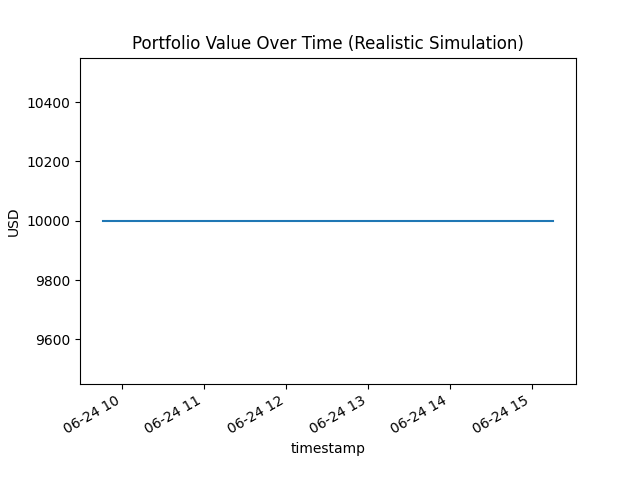
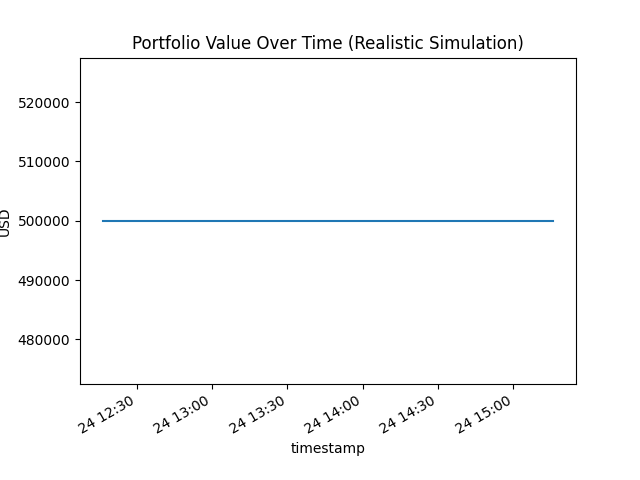
new file:   advanced_backtest.py 	new file:   advanced_trade_log.csv 	modified:   backtest.py 	new file:   feature_importance.png 	modified:   main.py 	new file:   portfolio_value_advanced.png 	modified:   portfolio_value_realistic.png 	modified:   shap_summary.png

diff --git a/advanced_backtest.py b/advanced_backtest.py
@@ -1,0 +1,200 @@
+import pandas as pd
+import numpy as np
+from sklearn.ensemble import RandomForestRegressor
+import matplotlib
+matplotlib.use('Agg')
+import matplotlib.pyplot as plt
+
+# --- Simulation Settings ---
+DATA_FILE = 'project3/data/bitcoin_usd.csv'
+INITIAL_CASH = 500000  # USD
+WINDOW = 60  # Rolling window size for training
+
+# --- Realism Settings ---
+FEE_RATE = 0.001  # 0.1% fee per trade
+SLIPPAGE_RATE = 0.0005  # 0.05% random slippage
+HOLD_THRESHOLD = 0.0005  # 0.05% threshold for trading
+
+def calculate_technical_indicators(df):
+    """Calculate technical indicators for feature engineering"""
+    # Simple Moving Averages
+    df['sma_5'] = df['close'].rolling(window=5).mean()
+    df['sma_20'] = df['close'].rolling(window=20).mean()
+    
+    # Exponential Moving Averages
+    df['ema_12'] = df['close'].ewm(span=12).mean()
+    df['ema_26'] = df['close'].ewm(span=26).mean()
+    
+    # RSI
+    delta = df['close'].diff()
+    gain = (delta.where(delta > 0, 0)).rolling(window=14).mean()
+    loss = (-delta.where(delta < 0, 0)).rolling(window=14).mean()
+    rs = gain / loss
+    df['rsi'] = 100 - (100 / (1 + rs))
+    
+    # MACD
+    df['macd'] = df['ema_12'] - df['ema_26']
+    df['macd_signal'] = df['macd'].ewm(span=9).mean()
+    df['macd_histogram'] = df['macd'] - df['macd_signal']
+    
+    # Bollinger Bands
+    df['bb_middle'] = df['close'].rolling(window=20).mean()
+    bb_std = df['close'].rolling(window=20).std()
+    df['bb_upper'] = df['bb_middle'] + (bb_std * 2)
+    df['bb_lower'] = df['bb_middle'] - (bb_std * 2)
+    
+    # Price changes
+    df['price_change_1'] = df['close'].pct_change(1)
+    df['price_change_5'] = df['close'].pct_change(5)
+    df['price_change_10'] = df['close'].pct_change(10)
+    
+    # Volume (if available)
+    if 'volume' in df.columns:
+        df['volume_sma'] = df['volume'].rolling(window=20).mean()
+        df['volume_ratio'] = df['volume'] / df['volume_sma']
+    
+    return df
+
+def prepare_ml_data(df):
+    """Prepare data with technical indicators for ML"""
+    # Calculate technical indicators
+    df = calculate_technical_indicators(df)
+    
+    # Select features for ML
+    feature_columns = [
+        'close', 'high', 'low', 'open',
+        'sma_5', 'sma_20', 'ema_12', 'ema_26',
+        'rsi', 'macd', 'macd_signal', 'macd_histogram',
+        'bb_upper', 'bb_lower', 'bb_middle',
+        'price_change_1', 'price_change_5', 'price_change_10'
+    ]
+    
+    # Add volume features if available
+    if 'volume_ratio' in df.columns:
+        feature_columns.append('volume_ratio')
+    
+    ml_df = df[['timestamp'] + feature_columns].copy()
+    ml_df['next_output'] = ml_df['close'].shift(-1)
+    ml_df = ml_df.dropna()
+    return ml_df
+
+# Load data
+df = pd.read_csv(DATA_FILE, parse_dates=['timestamp'])
+ml_df = prepare_ml_data(df)
+
+# Initialize portfolio
+cash = INITIAL_CASH
+btc = 0.0
+portfolio_values = []
+trade_log = []
+shap_values_list = []
+
+print("Starting advanced backtest with technical indicators...")
+print(f"Data points: {len(ml_df)}")
+print(f"Features: {len(ml_df.columns) - 2}")  # -2 for timestamp and next_output
+
+for i in range(WINDOW, len(ml_df) - 1):
+    train = ml_df.iloc[i-WINDOW:i]
+    test = ml_df.iloc[i+1:i+2]
+    
+    # Prepare features (exclude timestamp and next_output)
+    feature_cols = [col for col in train.columns if col not in ['timestamp', 'next_output']]
+    X_train = train[feature_cols]
+    y_train = train['next_output']
+    X_test = test[feature_cols]
+    
+    current_price = test['close'].values[0]
+    current_time = test['timestamp'].values[0]
+
+    # Train Random Forest model
+    model = RandomForestRegressor(n_estimators=100, random_state=42)
+    model.fit(X_train, y_train)
+    
+    pred = model.predict(X_test)[0]
+    pct_move = (pred - current_price) / current_price
+
+    # Trading logic
+    trade_action = 'HOLD'
+    if pct_move > HOLD_THRESHOLD and cash > 0:
+        # Buy with fees and slippage
+        buy_price = current_price * (1 + SLIPPAGE_RATE * np.random.rand())
+        btc_to_buy = (cash / buy_price)
+        fee = btc_to_buy * FEE_RATE
+        btc_to_buy -= fee
+        
+        btc += btc_to_buy
+        cash = 0
+        trade_action = 'BUY'
+        trade_log.append((current_time, 'BUY', buy_price, btc_to_buy, fee * buy_price))
+
+    elif pct_move < -HOLD_THRESHOLD and btc > 0:
+        # Sell with fees and slippage
+        sell_price = current_price * (1 - SLIPPAGE_RATE * np.random.rand())
+        fee = btc * sell_price * FEE_RATE
+        
+        cash = btc * sell_price - fee
+        btc = 0
+        trade_action = 'SELL'
+        trade_log.append((current_time, 'SELL', sell_price, btc, fee))
+
+    # Print every 10th step to avoid spam
+    if i % 10 == 0:
+        print(f"{current_time} - Price: ${current_price:,.2f}, Predicted Move: {pct_move:+.4f}%, Action: {trade_action}")
+
+    portfolio_value = cash + btc * current_price
+    portfolio_values.append(portfolio_value)
+
+print("Advanced backtest finished.")
+
+# Performance Analysis
+returns_df = pd.DataFrame(portfolio_values, columns=['value'])
+returns_df['daily_return'] = returns_df['value'].pct_change()
+
+std_return = returns_df['daily_return'].std()
+if std_return and not np.isnan(std_return):
+    sharpe_ratio = (returns_df['daily_return'].mean() / std_return) * np.sqrt(252)
+    sharpe_str = f"{sharpe_ratio:.2f}"
+else:
+    sharpe_str = "N/A (insufficient return variance)"
+
+peak = returns_df['value'].expanding(min_periods=1).max()
+drawdown = (returns_df['value'] - peak) / peak
+max_drawdown = drawdown.min()
+
+print("\n--- Advanced Performance Metrics ---")
+print(f"Final Portfolio Value: ${portfolio_values[-1]:,.2f}")
+print(f"Total Return: {(portfolio_values[-1] - INITIAL_CASH) / INITIAL_CASH * 100:.2f}%")
+print(f"Annualized Sharpe Ratio: {sharpe_str}")
+print(f"Maximum Drawdown: {max_drawdown*100:.2f}%")
+print(f"Total Trades: {len(trade_log)}")
+
+if trade_log:
+    log_df = pd.DataFrame(trade_log, columns=['Timestamp', 'Action', 'Price', 'Quantity', 'Fee (USD)'])
+    log_df.to_csv('advanced_trade_log.csv', index=False)
+    print("\nAdvanced trade log saved to advanced_trade_log.csv")
+else:
+    print("\nNo trades were executed.")
+
+# Plotting
+timestamps = df['timestamp'].iloc[WINDOW+1:WINDOW+1+len(portfolio_values)].values
+df_plot = pd.DataFrame({'timestamp': timestamps, 'portfolio_value': portfolio_values})
+df_plot.set_index('timestamp')['portfolio_value'].plot(title='Portfolio Value Over Time (Advanced Model)')
+plt.ylabel('USD')
+plt.savefig('portfolio_value_advanced.png')
+print('Advanced portfolio value plot saved as portfolio_value_advanced.png')
+plt.clf()
+
+# Feature importance plot
+feature_importance = pd.DataFrame({
+    'feature': feature_cols,
+    'importance': model.feature_importances_
+}).sort_values('importance', ascending=False)
+
+plt.figure(figsize=(10, 6))
+plt.barh(feature_importance['feature'], feature_importance['importance'])
+plt.title('Feature Importance (Random Forest)')
+plt.xlabel('Importance')
+plt.tight_layout()
+plt.savefig('feature_importance.png')
+print('Feature importance plot saved as feature_importance.png')
+plt.close() 

diff --git a/main.py b/main.py
@@ -14,11 +14,12 @@ HISTORY_MINUTES = 100
 # Ensure data directory exists
 os.makedirs(DATA_DIR, exist_ok=True)
 
-def fetch_coingecko_data(symbol, vs_currency, minutes=100):
+def fetch_coingecko_data(symbol, vs_currency, minutes=None):
     url = f"https://api.coingecko.com/api/v3/coins/{symbol}/market_chart"
     params = {
         "vs_currency": vs_currency,
-        "days": 1  # 1 day (CoinGecko returns up to 288 5-min points)
+        "days": 1,  # 1 day gives us minute-by-minute data
+        "interval": "minute"
     }
     headers = {
         'User-Agent': 'Mozilla/5.0 (compatible; BitcoinBot/1.0; +https://github.com/yourusername/bitcoinbot)'
@@ -26,9 +27,9 @@ def fetch_coingecko_data(symbol, vs_currency, minutes=100):
     response = requests.get(url, params=params, headers=headers)
     response.raise_for_status()
     data = response.json()
-    # data['prices'] is a list of [timestamp, price]
-    # data['market_caps'], data['total_volumes'] also available
-    prices = data['prices'][-minutes:]
+    prices = data['prices']
+    if minutes:
+        prices = prices[-minutes:]
     df = pd.DataFrame(prices, columns=['timestamp', 'close'])
     df['timestamp'] = pd.to_datetime(df['timestamp'], unit='ms')
     # For ML, we need open, high, low, close. We'll approximate:
@@ -37,6 +38,46 @@ def fetch_coingecko_data(symbol, vs_currency, minutes=100):
     df['low'] = df[['open', 'close']].min(axis=1)
     df = df.dropna().reset_index(drop=True)
     return df
+
+def fetch_multiple_days(symbol, vs_currency, num_days=7):
+    """Fetch multiple days of minute data by making multiple API calls"""
+    all_data = []
+    
+    for day in range(num_days):
+        url = f"https://api.coingecko.com/api/v3/coins/{symbol}/market_chart"
+        params = {
+            "vs_currency": vs_currency,
+            "days": 1,
+            "interval": "minute"
+        }
+        headers = {
+            'User-Agent': 'Mozilla/5.0 (compatible; BitcoinBot/1.0; +https://github.com/yourusername/bitcoinbot)'
+        }
+        
+        # Calculate the date for this iteration
+        from datetime import datetime, timedelta
+        target_date = datetime.now() - timedelta(days=day)
+        
+        response = requests.get(url, params=params, headers=headers)
+        response.raise_for_status()
+        data = response.json()
+        
+        df = pd.DataFrame(data['prices'], columns=['timestamp', 'close'])
+        df['timestamp'] = pd.to_datetime(df['timestamp'], unit='ms')
+        df['open'] = df['close'].shift(1)
+        df['high'] = df[['open', 'close']].max(axis=1)
+        df['low'] = df[['open', 'close']].min(axis=1)
+        df = df.dropna()
+        
+        all_data.append(df)
+        
+        # Rate limiting - be nice to the API
+        time.sleep(1)
+    
+    # Combine all data and sort by timestamp
+    combined_df = pd.concat(all_data, ignore_index=True)
+    combined_df = combined_df.sort_values('timestamp').reset_index(drop=True)
+    return combined_df
 
 def save_data(df, symbol):
     file_name = symbol + '_' + VS_CURRENCY + '.csv'

diff --git a/backtest.py b/backtest.py
@@ -8,13 +8,13 @@ import matplotlib.pyplot as plt
 
 # --- Simulation Settings ---
 DATA_FILE = 'project3/data/bitcoin_usd.csv'
-INITIAL_CASH = 10000  # USD
-WINDOW = 30  # Rolling window size for training
+INITIAL_CASH = 500000  # USD
+WINDOW = 60  # Rolling window size for training (increased for more context)
 
 # --- Realism Settings ---
 FEE_RATE = 0.001  # 0.1% fee per trade
 SLIPPAGE_RATE = 0.0005  # 0.05% random slippage
-HOLD_THRESHOLD = 0.002 # Must predict a 0.2% move to overcome fees+slippage
+HOLD_THRESHOLD = 0.0005 # Lowered to 0.05% to allow more trades
 
 # Load data
 df = pd.read_csv(DATA_FILE, parse_dates=['timestamp'])
@@ -80,7 +80,7 @@ for i in range(WINDOW, len(ml_df) - 1):
         trade_action = 'SELL'
         trade_log.append((current_time, 'SELL', sell_price, btc, fee))
 
-    if i % 10 == 0:
+    if i % 1 == 0:  # Print every step for better visibility
         print(f"{current_time} - Price: ${current_price:,.2f}, Predicted Move: {pct_move:+.4f}%, Action: {trade_action}")
 
     portfolio_value = cash + btc * current_price
@@ -91,7 +91,12 @@ print("Backtest finished.")
 returns_df = pd.DataFrame(portfolio_values, columns=['value'])
 returns_df['daily_return'] = returns_df['value'].pct_change()
 
-sharpe_ratio = (returns_df['daily_return'].mean() / returns_df['daily_return'].std()) * np.sqrt(252) # Annualized
+std_return = returns_df['daily_return'].std()
+if std_return and not np.isnan(std_return):
+    sharpe_ratio = (returns_df['daily_return'].mean() / std_return) * np.sqrt(252)
+    sharpe_str = f"{sharpe_ratio:.2f}"
+else:
+    sharpe_str = "N/A (insufficient return variance)"
 
 peak = returns_df['value'].expanding(min_periods=1).max()
 drawdown = (returns_df['value'] - peak) / peak
@@ -100,7 +105,7 @@ max_drawdown = drawdown.min()
 print("\n--- Performance Metrics ---")
 print(f"Final Portfolio Value: ${portfolio_values[-1]:,.2f}")
 print(f"Total Return: {(portfolio_values[-1] - INITIAL_CASH) / INITIAL_CASH * 100:.2f}%")
-print(f"Annualized Sharpe Ratio: {sharpe_ratio:.2f}")
+print(f"Annualized Sharpe Ratio: {sharpe_str}")
 print(f"Maximum Drawdown: {max_drawdown*100:.2f}%")
 if trade_log:
     log_df = pd.DataFrame(trade_log, columns=['Timestamp', 'Action', 'Price', 'Quantity', 'Fee (USD)'])
